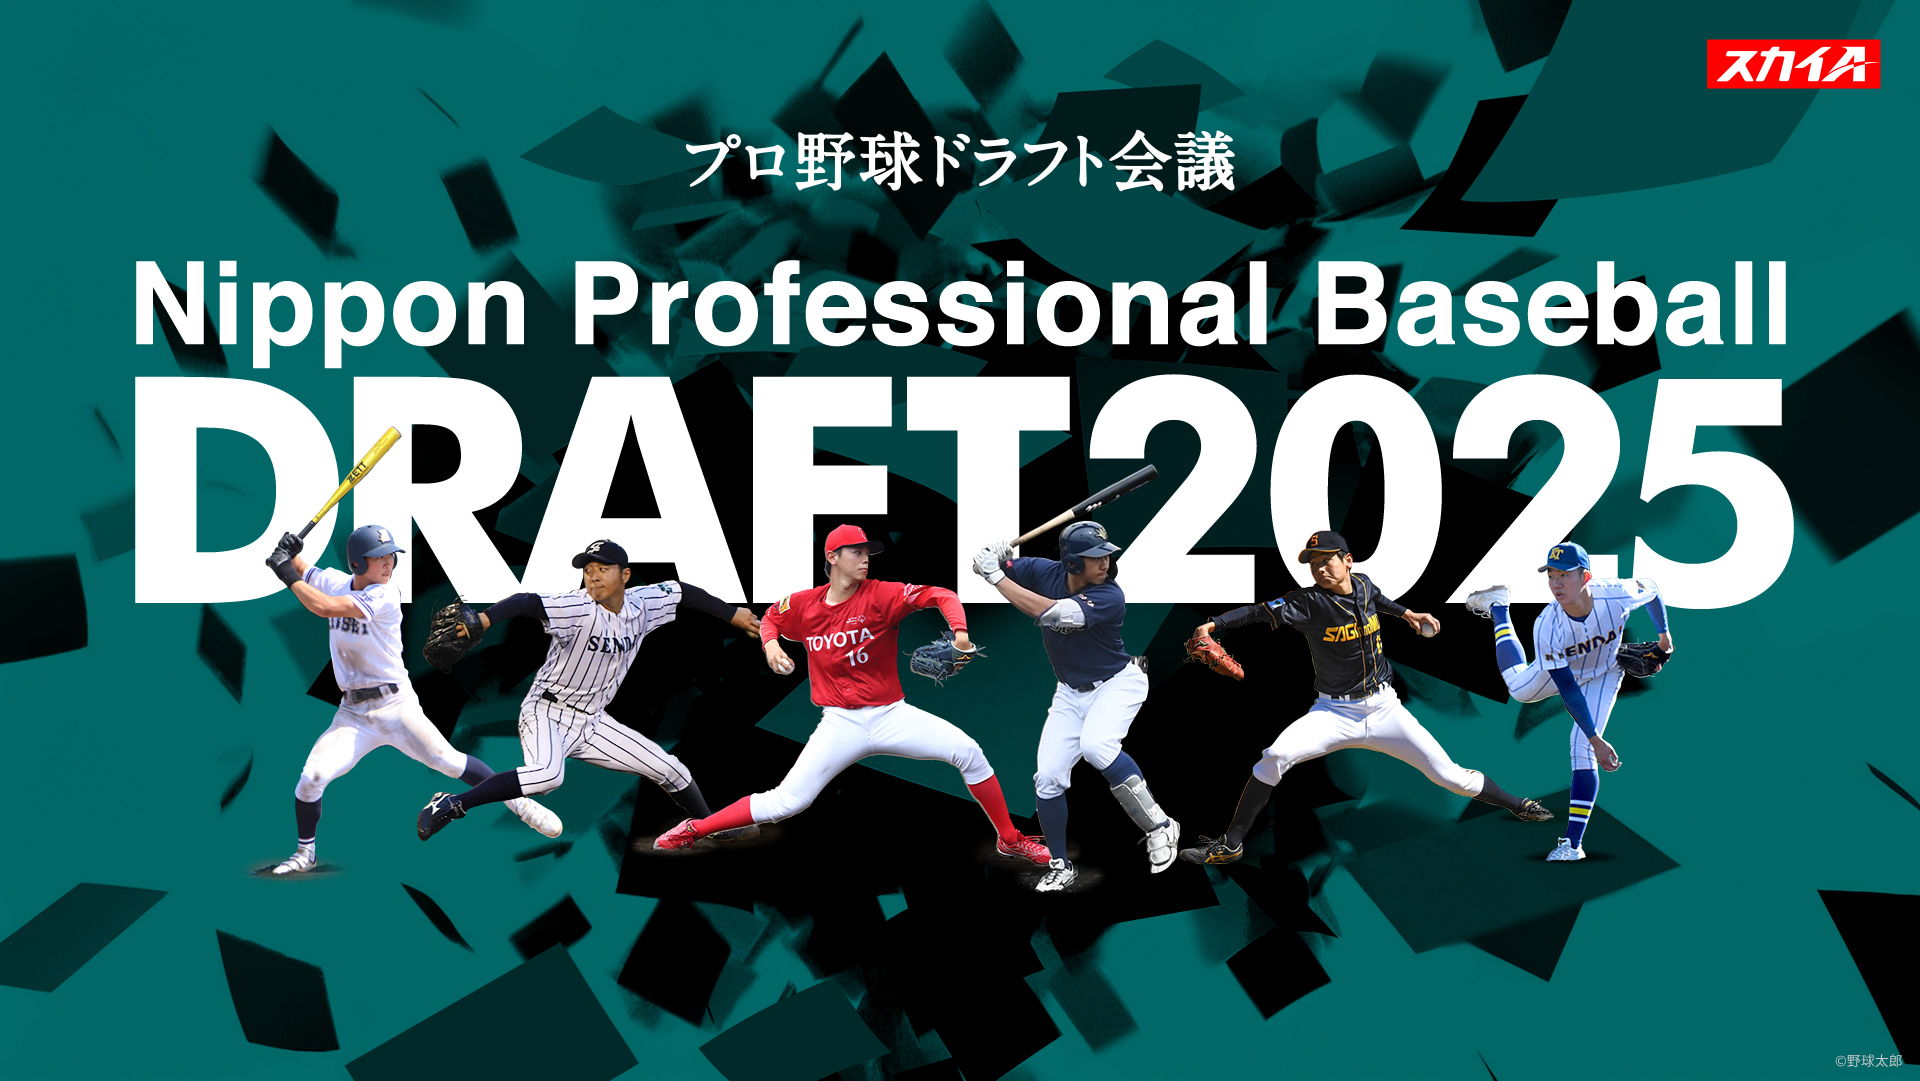
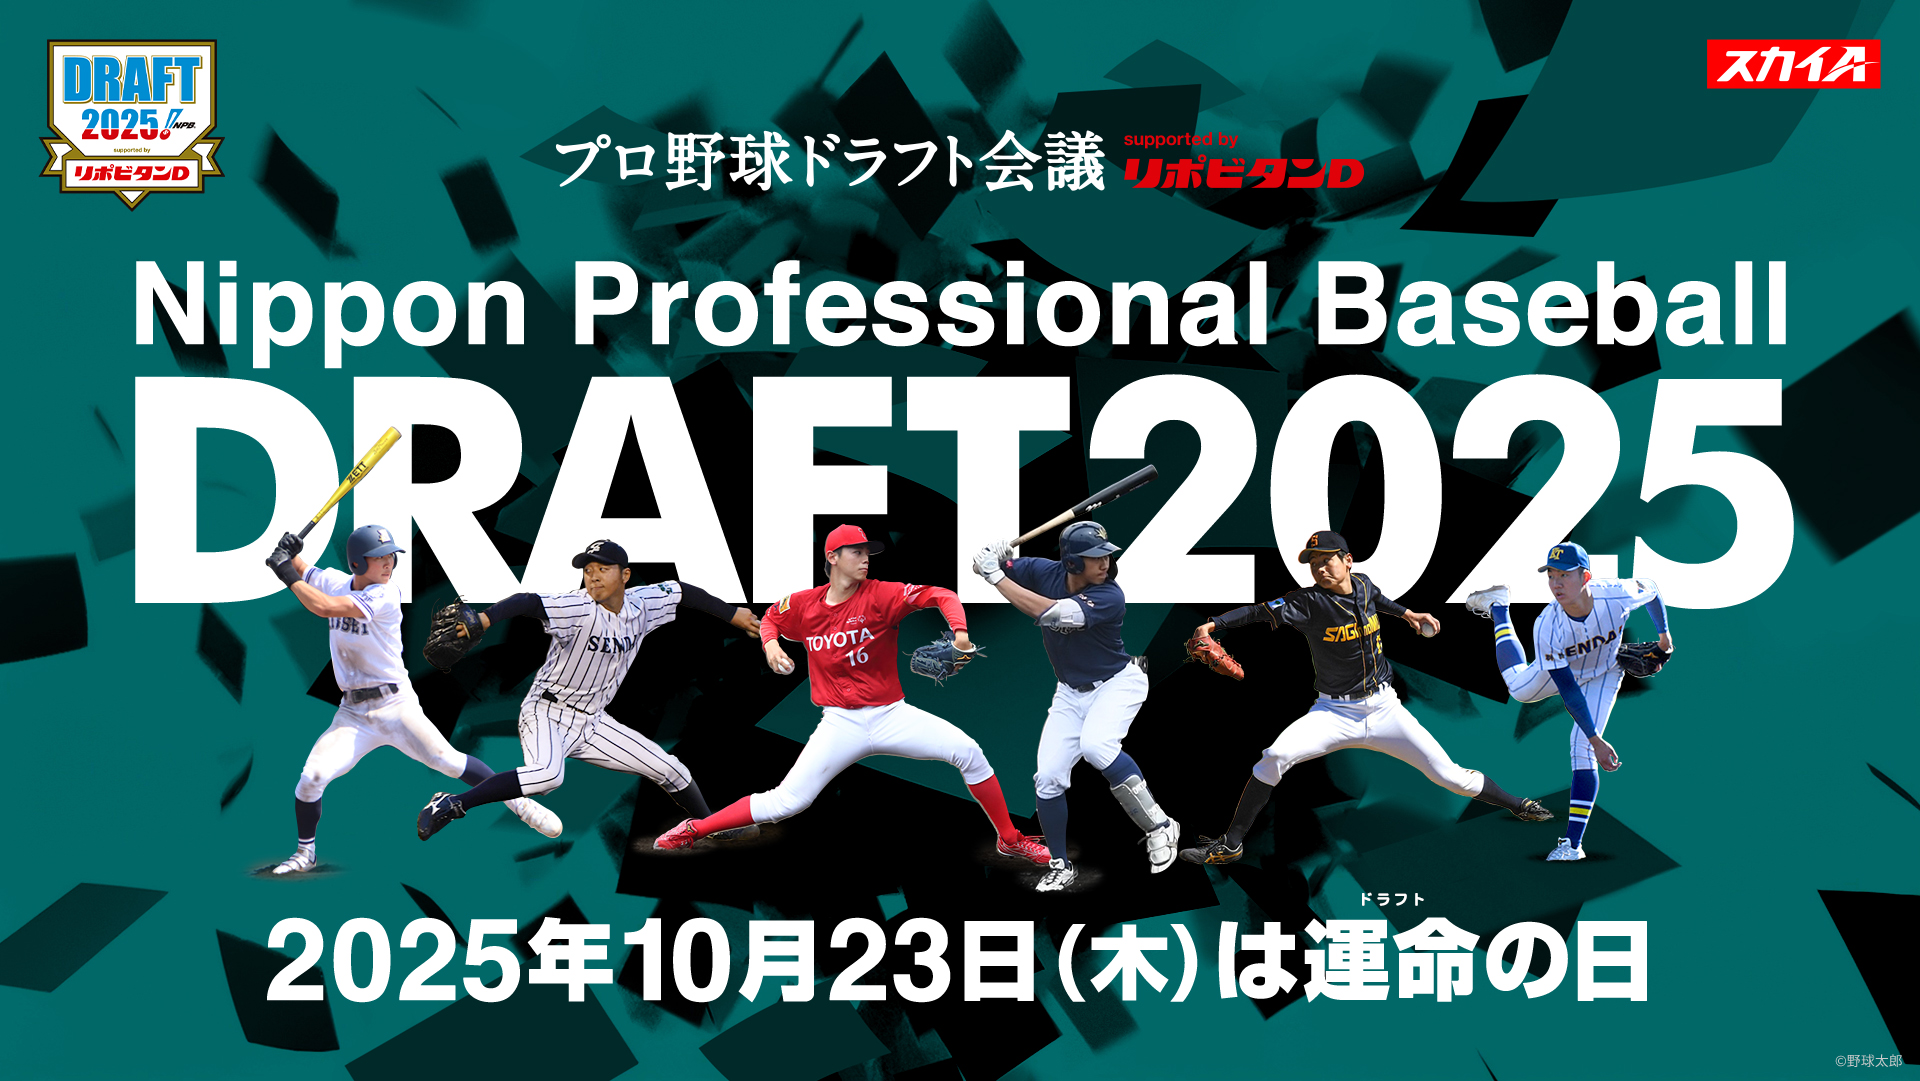
feature:
コラム#05更新

Changed region(s): [[0.125, 0.8242, 0.875, 0.9463], [0.2812, 0.1221, 0.7188, 0.1832], [0.0, 0.0305, 0.125, 0.2137]]

diff --git a/dist/special/draft2025_sp/index.html b/dist/special/draft2025_sp/index.html
@@ -2,7 +2,7 @@
 <html lang="ja">
   <head>
     <meta charset="UTF-8" />
-    <title>2025年10月23日（木）は運命の日｜スカイＡ｜CS放送のスポーツチャンネル</title>
+    <title>210月23日(木)は運命（ドラフト）の日。2025年プロ野球ドラフト会議特集｜スカイＡ｜CS放送のスポーツチャンネル</title>
     <meta
       name="description"
       content="プロ野球（阪神タイガース主催の公式戦、オープン戦、ファーム戦）や大学野球、夏の高校野球、ゴルフ、スポーツクライミングなど豊富なスポーツ番組を重点的に放送しています。さらに釣りやボウリング、また探偵！ナイトスクープなどの人気番組も彩りを添えています。"
@@ -11,7 +11,7 @@
     <meta name="viewport" content="width=device-width,user-scalable=no,maximum-scale=1.0" />
     <!-- OG START -->
 
-    <meta property="og:title" content="2025年10月23日（木）は運命の日｜スカイＡ｜CS放送のスポーツチャンネル" />
+    <meta property="og:title" content="210月23日(木)は運命（ドラフト）の日。2025年プロ野球ドラフト会議特集｜スカイＡ｜CS放送のスポーツチャンネル" />
     <meta property="og:type" content="article" />
     <meta
       property="og:description"
@@ -357,8 +357,11 @@
   </h1>
 
   <div class="content-block head">
+    <div class="head-icon"><img alt="スポーツ専門チャンネルで放送する今日・明日の番組" height="170" src="../../img/sp/special/draft2025/icon_draft.png" width="183"></div>
     <p class="heading-title center">
-
+      全12球団の１位指名から最終指名、<br />
+      さらには育成選手指名まで、<br />
+      次世代のスター選手誕生の瞬間を完全生中継！<br />
     </p>
   </div>
   <div class="content-block">
@@ -397,18 +400,34 @@
     <ol class="program-column">
       <li class="program-column-list">
         <div class="program-column-visual">
-          <a href="https://www.dev.sky-a.asahi.co.jp/news/433/"><span class="program-column-number">#04</span> <img alt="" height="auto" src="/img/special/draft2025/column1_4.jpg" width="360" /> </a>
+          <a href="/news/1692/"><span class="program-column-number">#05</span> <img alt="" height="auto" src="/img/special/draft2025/column1_5.jpg" width="360" /> </a>
           <span class="program-column-visual-caption">© 野球太郎</span>
         </div>
         <div class="program-column-detail">
           <dl class="program-column-title">
-            <dt><a href="https://www.dev.sky-a.asahi.co.jp/news/433/">2025/09/05　【ドラフトへの軌跡2025】第4回</a></dt>
-            <dd><a href="https://www.dev.sky-a.asahi.co.jp/news/433/"><ruby>秋山俊<rp>(</rp><rt>アキヤマ シュン</rt><rp>)</rp></ruby>（中京大）　4年　外野手</a></dd>
+            <dt><a href="/news/1692/">2025/09/12　【ドラフトへの軌跡2025】第5回</a></dt>
+            <dd><a href="/news/1692/"><ruby>冨士隼斗<rp>(</rp><rt>フジ ハヤト</rt><rp>)</rp></ruby>（日本通運）　23歳　投手</a></dd>
           </dl>
           <p class="program-column-text">
-            <a href="https://www.dev.sky-a.asahi.co.jp/news/433/">今年も大学生に有望株が多いが、地方リーグの野手で筆頭格と言えるのが中京大の秋山俊だ。仙台育英では1年秋からレギュラーとなり、3年春には甲子...</a>
+            <a href="/news/1692/">先日幕を閉じた都市対抗野球。多くのドラフト候補が登場したが、残念ながら出場機会がないまま大会を去った有力選手も存在している。その筆頭格...</a>
           </p>
-          <p class="program-column-link"><a href="https://www.dev.sky-a.asahi.co.jp/news/433/">続きを読む</a></p>
+          <p class="program-column-link"><a href="/news/1692/">続きを読む</a></p>
+        </div>
+      </li>
+      <li class="program-column-list">
+        <div class="program-column-visual">
+          <a href="/news/1687/"><span class="program-column-number">#04</span> <img alt="" height="auto" src="/img/special/draft2025/column1_4.jpg" width="360" /> </a>
+          <span class="program-column-visual-caption">© 野球太郎</span>
+        </div>
+        <div class="program-column-detail">
+          <dl class="program-column-title">
+            <dt><a href="/news/1687/">2025/09/05　【ドラフトへの軌跡2025】第4回</a></dt>
+            <dd><a href="/news/1687/"><ruby>秋山俊<rp>(</rp><rt>アキヤマ シュン</rt><rp>)</rp></ruby>（中京大）　4年　外野手</a></dd>
+          </dl>
+          <p class="program-column-text">
+            <a href="/news/1687/">今年も大学生に有望株が多いが、地方リーグの野手で筆頭格と言えるのが中京大の秋山俊だ。仙台育英では1年秋からレギュラーとなり、3年春には甲子...</a>
+          </p>
+          <p class="program-column-link"><a href="/news/1687/">続きを読む</a></p>
         </div>
       </li>
       <li class="program-column-list">
@@ -543,6 +562,51 @@
       </article>
     </div>
     
+  </section>
+</div>
+
+<div class="content-block beige">
+  <section class="program special">
+    <div class="special-content">
+      <h2 class="special-title">【生中継】プロ野球ドラフト会議 supported by リポビタンＤ</h2>
+
+      <p class="special-lead">10/23(木)午後4:30～</p>
+      <p class="special-lead" style="margin-bottom: 2em;">2025年10月23日は運命（ドラフト）の日！プロ野球ドラフト会議を生中継！<br>
+        球界の未来を担うスター誕生の瞬間を目撃せよ！<br>
+        ドラフト会議2025、運命の1位指名から育成選手指名まで完全放送。<br>
+        今年の目玉選手はどの球団へ？<br>
+        ドラフト1位だけじゃない！各球団の戦略、そして未来を左右する指名選手の全てを徹底解説。ここから2026年のプロ野球は始まる！</p>
+    </div>
+
+    <div class="special-image"><img alt="【生中継】プロ野球ドラフト会議 supported by リポビタンＤ" src="../../img/special/draft2025/draft2025.jpg" style="border: 1px solid #ccc;"></div>
+  </section>
+</div>
+
+<div class="content-block">
+  <section class="program special">
+    <div class="special-content">
+      <h2 class="special-title">【生放送】プロ野球ドラフト後夜祭！２０２５</h2>
+
+      <p class="special-lead">10/23(木)午後9:00～</p>
+      <p class="special-lead" style="margin-bottom: 2em;">ドラフト会議中継のあとは「ドラフト後夜祭」で盛り上がろう！<br>
+        プロ野球、アマチュア野球大好きなタレントが今年のドラフトを振り返る！<br>
+        日本一早い！？2026年ドラフト会議トークもしちゃいます！</p>
+    </div>
+
+    <div class="special-image"><img alt="【生放送】プロ野球ドラフト後夜祭！２０２５" src="../../img/special/draft2025/draft2025_afterparty.jpg" style="border: 1px solid #ccc;"></div>
+  </section>
+</div>
+
+<div class="content-block beige">
+  <section class="program special">
+    <div class="special-content">
+      <h2 class="special-title">第6回プロ野球仮想ドラフト会議</h2>
+
+      <p class="special-lead">10/18(土)午後8:00～</p>
+      <p class="special-lead" style="margin-bottom: 2em;">「プロ野球ドラフト会議 supported by リポビタンＤ」開催直前にプロ野球レジェンドOBたちが各球団のドラフト戦略、注目選手を徹底解剖！今年のドラフト1位は誰になるのか！？</p>
+    </div>
+
+    <div class="special-image"><img alt="第6回プロ野球仮想ドラフト会議" src="../../img/special/draft2025/draft2025_virtual.jpg" style="border: 1px solid #ccc;"></div>
   </section>
 </div>
 

diff --git a/dist/special/draft2025/index.html b/dist/special/draft2025/index.html
@@ -2,14 +2,14 @@
 <html lang="ja">
   <head>
     <meta charset="UTF-8" />
-    <title>2025年10月23日（木）は運命の日｜スカイＡ｜CS放送のスポーツチャンネル</title>
+    <title>10月23日(木)は運命（ドラフト）の日。2025年プロ野球ドラフト会議特集｜スカイＡ｜CS放送のスポーツチャンネル</title>
     <meta
       name="description"
       content="プロ野球（阪神タイガース主催の公式戦、オープン戦、ファーム戦）や大学野球、夏の高校野球、ゴルフ、スポーツクライミングなど豊富なスポーツ番組を重点的に放送しています。さらに釣りやボウリング、また探偵！ナイトスクープなどの人気番組も彩りを添えています。"
     />
     <meta name="keywords" content="阪神タイガース,スポーツチャンネル,CS放送,スカパー,ケーブルテレビ,ゴルフ,ボウリング,スポーツクライミング、Gift of Aloha ラン＆ライド、BLADE" />
     <!-- OG START -->
-    <meta property="og:title" content="2025年10月23日（木）は運命の日｜特集｜スカイＡ｜CS放送のスポーツチャンネル" />
+    <meta property="og:title" content="10月23日(木)は運命（ドラフト）の日。2025年プロ野球ドラフト会議特集｜特集｜スカイＡ｜CS放送のスポーツチャンネル" />
     <meta property="og:type" content="article" />
     <meta
       property="og:description"
@@ -258,7 +258,8 @@
 
   <div class="content-block head">
     <p class="heading-title center">
-
+      全12球団の、最も注目が集まる１位指名から最終指名、<br>
+      さらには育成選手指名まで、次世代のスター選手誕生の瞬間を完全生中継！
     </p>
     <!-- .banner-listはPC/SP共通-->
     <ul class="banner-list">
@@ -322,18 +323,34 @@
     <ol class="program-column">
       <li class="program-column-list">
         <div class="program-column-visual">
-          <a href="https://www.dev.sky-a.asahi.co.jp/news/433/"><span class="program-column-number">#04</span> <img alt="" height="auto" src="/img/special/draft2025/column1_4.jpg" width="360" /> </a>
+          <a href="/news/1692/"><span class="program-column-number">#05</span> <img alt="" height="auto" src="/img/special/draft2025/column1_5.jpg" width="360" /> </a>
           <span class="program-column-visual-caption">© 野球太郎</span>
         </div>
         <div class="program-column-detail">
           <dl class="program-column-title">
-            <dt><a href="https://www.dev.sky-a.asahi.co.jp/news/433/">2025/09/05　【ドラフトへの軌跡2025】第4回</a></dt>
-            <dd><a href="https://www.dev.sky-a.asahi.co.jp/news/433/"><ruby>秋山俊<rp>(</rp><rt>アキヤマ シュン</rt><rp>)</rp></ruby>（中京大）　4年　外野手</a></dd>
+            <dt><a href="/news/1692/">2025/09/12　【ドラフトへの軌跡2025】第5回</a></dt>
+            <dd><a href="/news/1692/"><ruby>冨士隼斗<rp>(</rp><rt>フジ ハヤト</rt><rp>)</rp></ruby>（日本通運）　23歳　投手</a></dd>
           </dl>
           <p class="program-column-text">
-            <a href="https://www.dev.sky-a.asahi.co.jp/news/433/">今年も大学生に有望株が多いが、地方リーグの野手で筆頭格と言えるのが中京大の秋山俊だ。仙台育英では1年秋からレギュラーとなり、3年春には甲子...</a>
+            <a href="/news/1692/">先日幕を閉じた都市対抗野球。多くのドラフト候補が登場したが、残念ながら出場機会がないまま大会を去った有力選手も存在している。その筆頭格...</a>
           </p>
-          <p class="program-column-link"><a href="https://www.dev.sky-a.asahi.co.jp/news/433/">続きを読む</a></p>
+          <p class="program-column-link"><a href="/news/1692/">続きを読む</a></p>
+        </div>
+      </li>
+      <li class="program-column-list">
+        <div class="program-column-visual">
+          <a href="/news/1687/"><span class="program-column-number">#04</span> <img alt="" height="auto" src="/img/special/draft2025/column1_4.jpg" width="360" /> </a>
+          <span class="program-column-visual-caption">© 野球太郎</span>
+        </div>
+        <div class="program-column-detail">
+          <dl class="program-column-title">
+            <dt><a href="/news/1687/">2025/09/05　【ドラフトへの軌跡2025】第4回</a></dt>
+            <dd><a href="/news/1687/"><ruby>秋山俊<rp>(</rp><rt>アキヤマ シュン</rt><rp>)</rp></ruby>（中京大）　4年　外野手</a></dd>
+          </dl>
+          <p class="program-column-text">
+            <a href="/news/1687/">今年も大学生に有望株が多いが、地方リーグの野手で筆頭格と言えるのが中京大の秋山俊だ。仙台育英では1年秋からレギュラーとなり、3年春には甲子...</a>
+          </p>
+          <p class="program-column-link"><a href="/news/1687/">続きを読む</a></p>
         </div>
       </li>
       <li class="program-column-list">
@@ -468,6 +485,51 @@
       </article>
     </div>
     
+  </section>
+</div>
+
+<div class="content-block beige">
+  <section class="program special">
+    <div class="special-content">
+      <h2 class="special-title">【生中継】プロ野球ドラフト会議 supported by リポビタンＤ</h2>
+
+      <p class="special-lead">10/23(木)午後4:30～</p>
+      <p class="special-lead" style="margin-bottom: 2em;">2025年10月23日は運命（ドラフト）の日！プロ野球ドラフト会議を生中継！<br>
+        球界の未来を担うスター誕生の瞬間を目撃せよ！<br>
+        ドラフト会議2025、運命の1位指名から育成選手指名まで完全放送。<br>
+        今年の目玉選手はどの球団へ？<br>
+        ドラフト1位だけじゃない！各球団の戦略、そして未来を左右する指名選手の全てを徹底解説。ここから2026年のプロ野球は始まる！</p>
+    </div>
+
+    <div class="special-image"><img alt="【生中継】プロ野球ドラフト会議 supported by リポビタンＤ" src="../../img/special/draft2025/draft2025.jpg" style="border: 1px solid #ccc;"></div>
+  </section>
+</div>
+
+<div class="content-block">
+  <section class="program special">
+    <div class="special-content">
+      <h2 class="special-title">【生放送】プロ野球ドラフト後夜祭！２０２５</h2>
+
+      <p class="special-lead">10/23(木)午後9:00～</p>
+      <p class="special-lead" style="margin-bottom: 2em;">ドラフト会議中継のあとは「ドラフト後夜祭」で盛り上がろう！<br>
+        プロ野球、アマチュア野球大好きなタレントが今年のドラフトを振り返る！<br>
+        日本一早い！？2026年ドラフト会議トークもしちゃいます！</p>
+    </div>
+
+    <div class="special-image"><img alt="【生放送】プロ野球ドラフト後夜祭！２０２５" src="../../img/special/draft2025/draft2025_afterparty.jpg" style="border: 1px solid #ccc;"></div>
+  </section>
+</div>
+
+<div class="content-block beige">
+  <section class="program special">
+    <div class="special-content">
+      <h2 class="special-title">第6回プロ野球仮想ドラフト会議</h2>
+
+      <p class="special-lead">10/18(土)午後8:00～</p>
+      <p class="special-lead" style="margin-bottom: 2em;">「プロ野球ドラフト会議 supported by リポビタンＤ」開催直前にプロ野球レジェンドOBたちが各球団のドラフト戦略、注目選手を徹底解剖！今年のドラフト1位は誰になるのか！？</p>
+    </div>
+
+    <div class="special-image"><img alt="第6回プロ野球仮想ドラフト会議" src="../../img/special/draft2025/draft2025_virtual.jpg" style="border: 1px solid #ccc;"></div>
   </section>
 </div>
 
